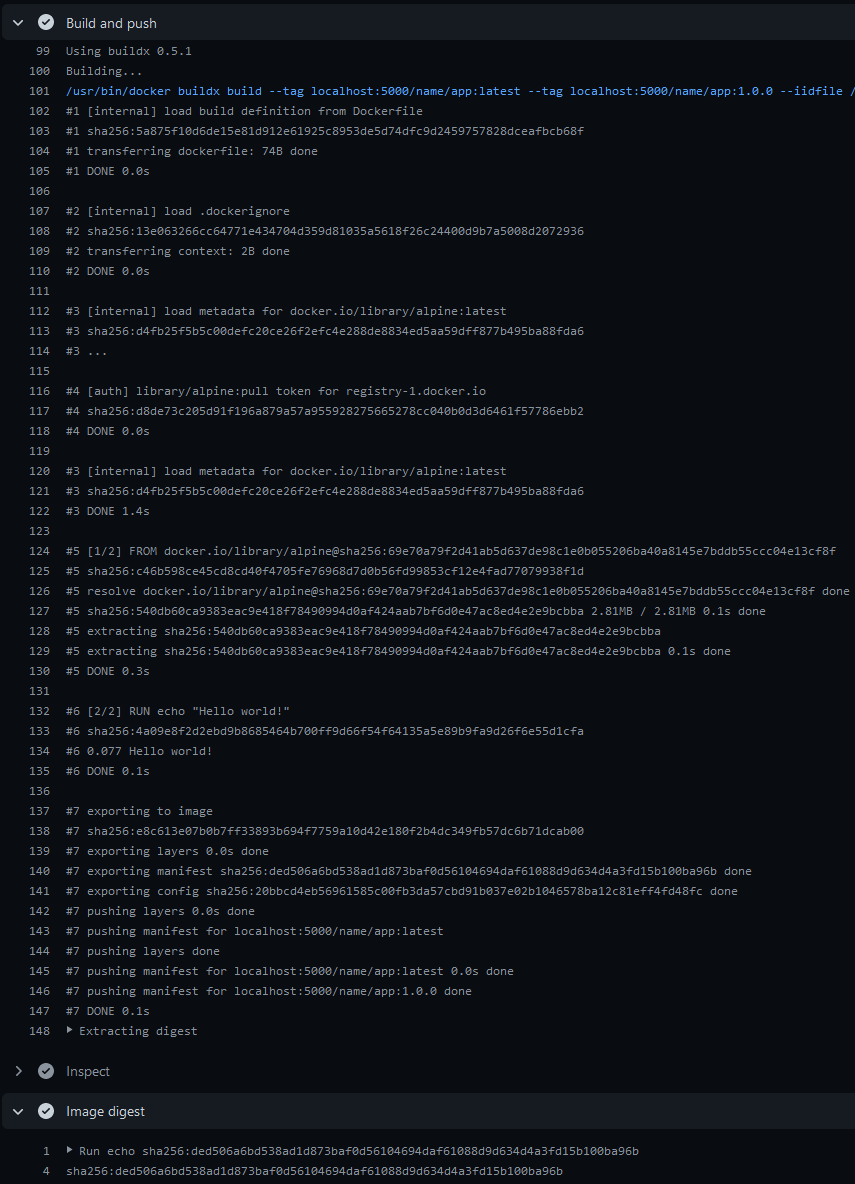
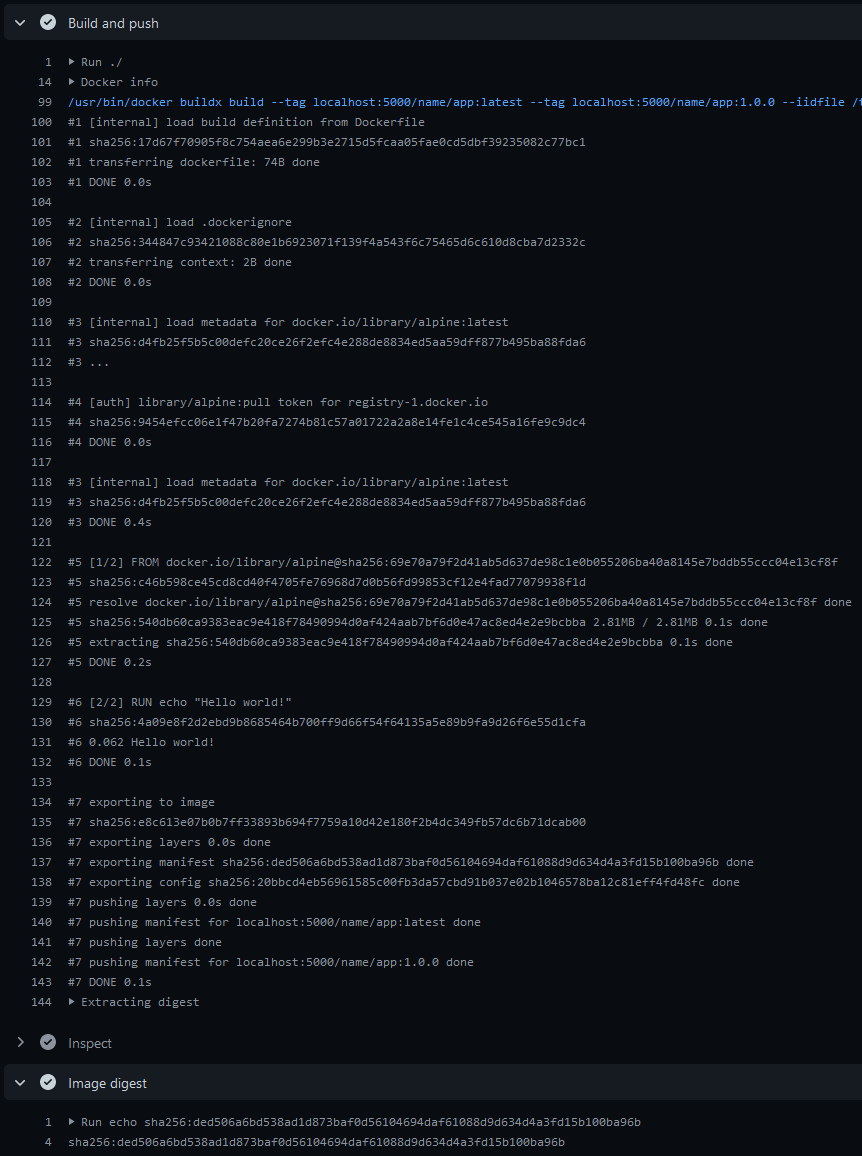
Enhance console output

Changed region(s): [[0.0304, 0.0, 1.0, 0.9965]]

diff --git a/dist/index.js b/dist/index.js
@@ -2530,10 +2530,8 @@ function run() {
             }
             stateHelper.setTmpDir(context.tmpDir());
             const buildxVersion = yield buildx.getVersion();
-            core.info(`Using buildx ${buildxVersion}`);
             const defContext = context.defaultContext();
             let inputs = yield context.getInputs(defContext);
-            core.info(`Building...`);
             const args = yield context.getArgs(inputs, defContext, buildxVersion);
             yield exec.exec('docker', args).then(res => {
                 if (res.stderr != '' && !res.success) {

diff --git a/src/main.ts b/src/main.ts
@@ -19,12 +19,9 @@ async function run(): Promise<void> {
     stateHelper.setTmpDir(context.tmpDir());
 
     const buildxVersion = await buildx.getVersion();
-    core.info(`Using buildx ${buildxVersion}`);
-
     const defContext = context.defaultContext();
     let inputs: context.Inputs = await context.getInputs(defContext);
 
-    core.info(`Building...`);
     const args: string[] = await context.getArgs(inputs, defContext, buildxVersion);
     await exec.exec('docker', args).then(res => {
       if (res.stderr != '' && !res.success) {
